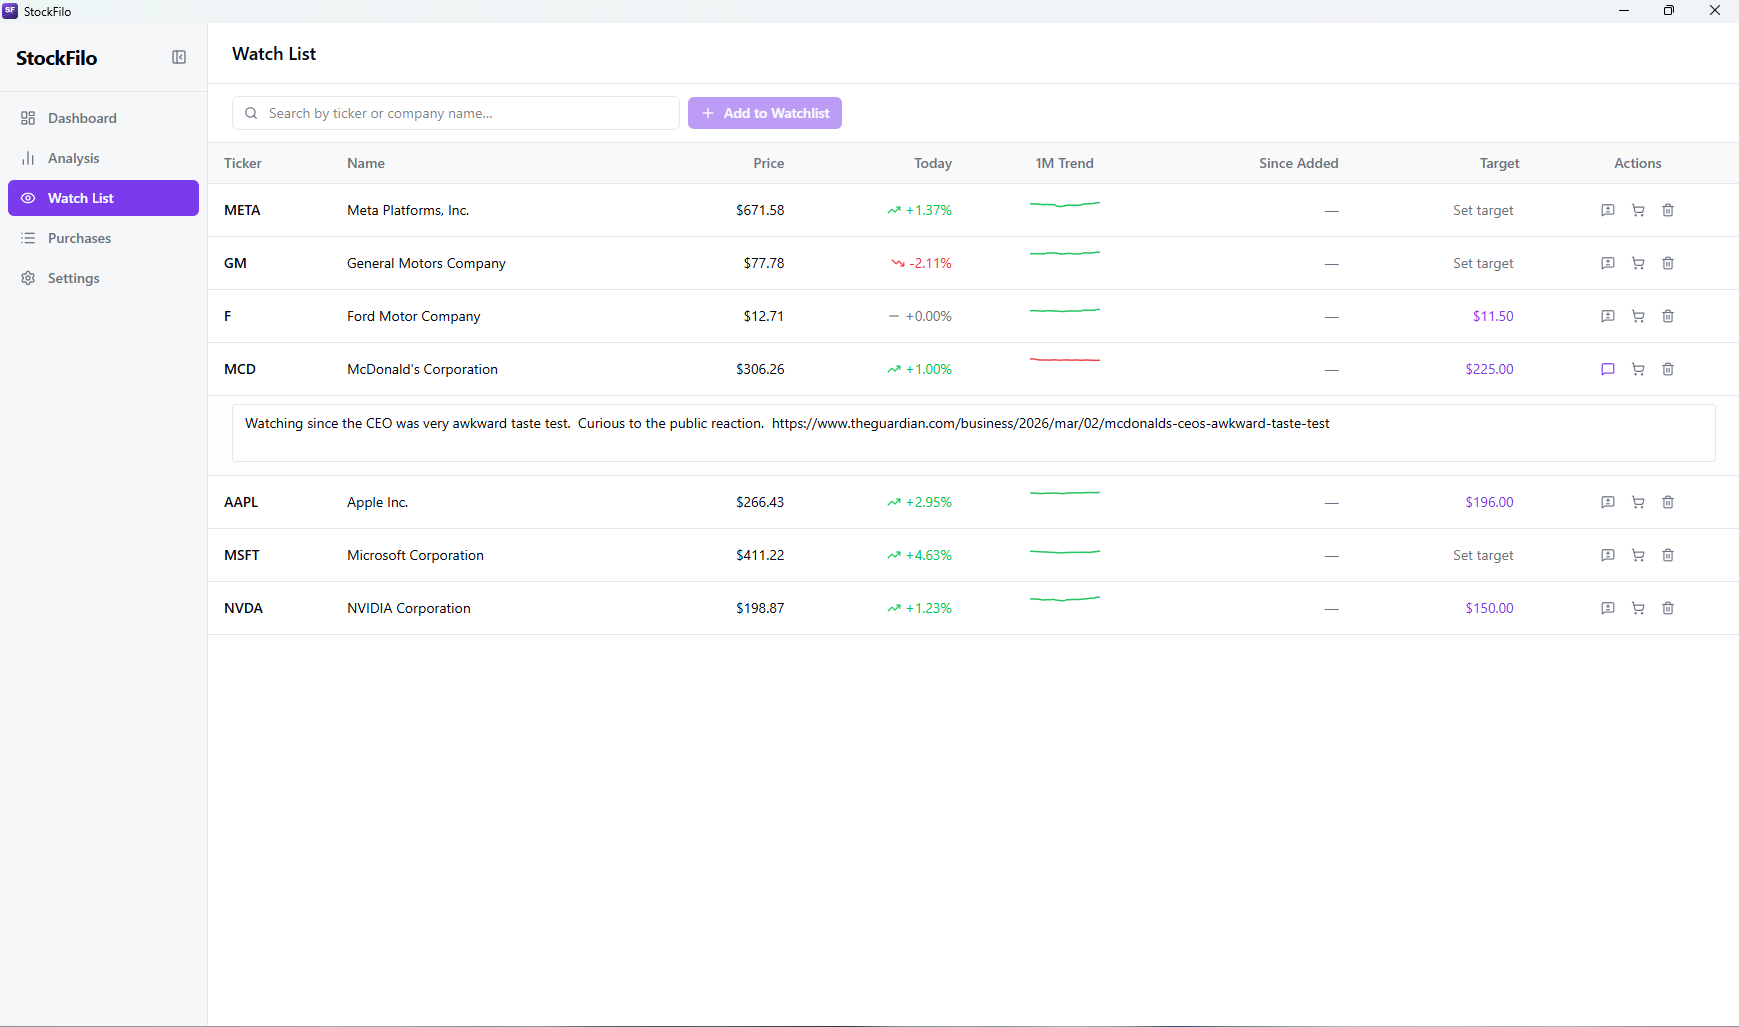
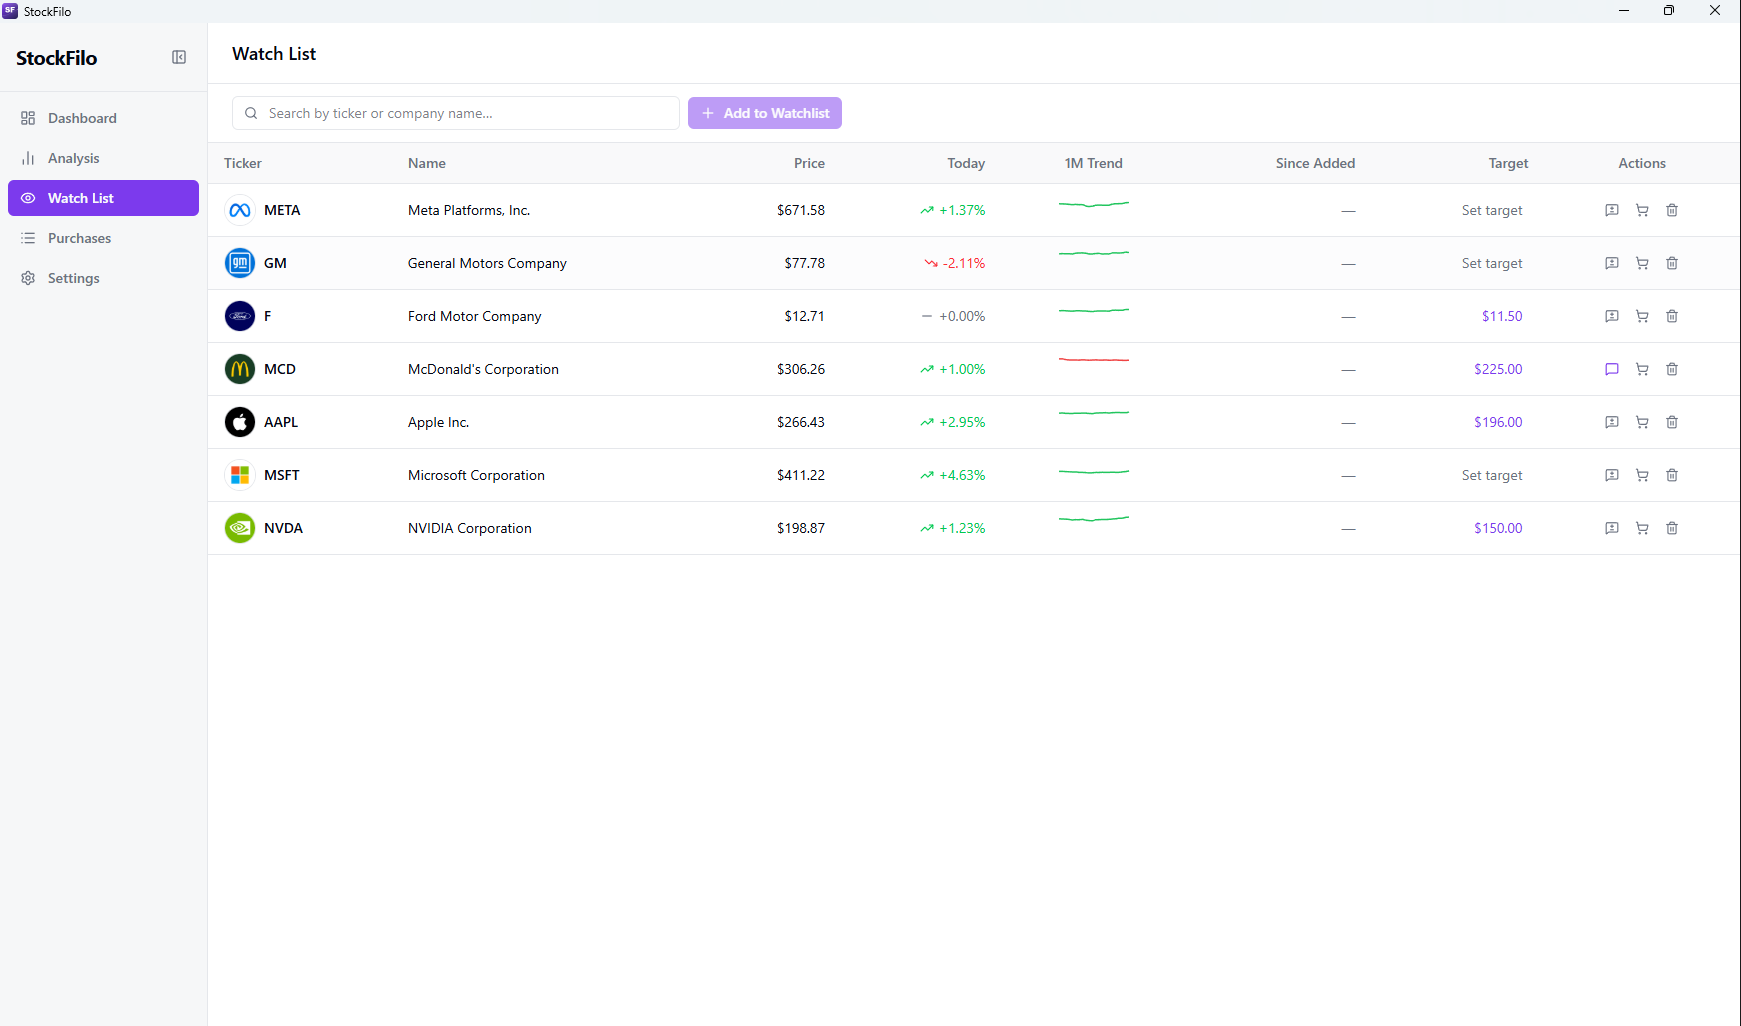
feat: implement TickerLogo component for enhanced stock display

diff --git a/src/components/portfolio/PurchasesTable.tsx b/src/components/portfolio/PurchasesTable.tsx
@@ -6,39 +6,7 @@ import type { Purchase, Stock } from "../../types";
 import { formatCurrency, formatPercent, formatShares, pnlColor, cn } from "../../lib/utils";
 import { PurchaseDialog } from "./PurchaseDialog";
 import { Pencil, Trash2, Plus, ExternalLink, Download } from "lucide-react";
-
-// ── Ticker logo with letter-avatar fallback ──────────────────────────────────
-
-const LOGO_COLORS = [
-  "#6366f1", "#8b5cf6", "#ec4899", "#f97316",
-  "#14b8a6", "#06b6d4", "#84cc16", "#f59e0b",
-];
-
-function TickerLogo({ ticker }: { ticker: string }) {
-  const [failed, setFailed] = useState(false);
-  const color = LOGO_COLORS[ticker.charCodeAt(0) % LOGO_COLORS.length];
-  const initials = ticker.slice(0, 2).toUpperCase();
-
-  if (failed) {
-    return (
-      <div
-        className="w-8 h-8 rounded-full flex items-center justify-center text-white text-[10px] font-bold shrink-0"
-        style={{ backgroundColor: color }}
-      >
-        {initials}
-      </div>
-    );
-  }
-
-  return (
-    <img
-      src={`https://assets.parqet.com/logos/symbol/${ticker}?format=png`}
-      alt={ticker}
-      className="w-8 h-8 rounded-full object-contain shrink-0 bg-white border border-border"
-      onError={() => setFailed(true)}
-    />
-  );
-}
+import { TickerLogo } from "../shared/TickerLogo";
 
 // ── Table types ───────────────────────────────────────────────────────────────
 

diff --git a/src/components/watchlist/WatchList.tsx b/src/components/watchlist/WatchList.tsx
@@ -4,6 +4,7 @@ import { formatCurrency, formatPercent, pnlColor, cn } from "../../lib/utils";
 import { searchTickers } from "../../lib/db";
 import { PurchaseDialog } from "../portfolio/PurchaseDialog";
 import { SparkLine } from "./SparkLine";
+import { TickerLogo } from "../shared/TickerLogo";
 import { useWatchlistTargets } from "../../hooks/useWatchlistTargets";
 import { useWatchlistNotes } from "../../hooks/useWatchlistNotes";
 import {
@@ -251,9 +252,12 @@ export function WatchList({ items, stocks, onAdd, onRemove, onPurchase }: WatchL
                     >
                       {/* Ticker */}
                       <td className="px-4 py-2.5 font-semibold text-foreground">
-                        <div className="flex items-center gap-1.5">
-                          {triggered && <Bell className="w-3.5 h-3.5 text-amber-500 shrink-0" />}
-                          {item.ticker}
+                        <div className="flex items-center gap-2">
+                          <TickerLogo ticker={item.ticker} />
+                          <div className="flex items-center gap-1.5">
+                            {triggered && <Bell className="w-3.5 h-3.5 text-amber-500 shrink-0" />}
+                            {item.ticker}
+                          </div>
                         </div>
                       </td>
 

diff --git a/src/components/shared/TickerLogo.tsx b/src/components/shared/TickerLogo.tsx
@@ -1,0 +1,40 @@
+import { useState } from "react";
+
+const LOGO_COLORS = [
+  "#6366f1", "#8b5cf6", "#ec4899", "#f97316",
+  "#14b8a6", "#06b6d4", "#84cc16", "#f59e0b",
+];
+
+interface TickerLogoProps {
+  ticker: string;
+  size?: "sm" | "md";
+}
+
+export function TickerLogo({ ticker, size = "md" }: TickerLogoProps) {
+  const [failed, setFailed] = useState(false);
+  const color = LOGO_COLORS[ticker.charCodeAt(0) % LOGO_COLORS.length];
+  const initials = ticker.slice(0, 2).toUpperCase();
+  const cls = size === "sm"
+    ? "w-6 h-6 text-[9px]"
+    : "w-8 h-8 text-[10px]";
+
+  if (failed) {
+    return (
+      <div
+        className={`${cls} rounded-full flex items-center justify-center text-white font-bold shrink-0`}
+        style={{ backgroundColor: color }}
+      >
+        {initials}
+      </div>
+    );
+  }
+
+  return (
+    <img
+      src={`https://assets.parqet.com/logos/symbol/${ticker}?format=png`}
+      alt={ticker}
+      className={`${cls} rounded-full object-contain shrink-0 bg-white border border-border`}
+      onError={() => setFailed(true)}
+    />
+  );
+}
